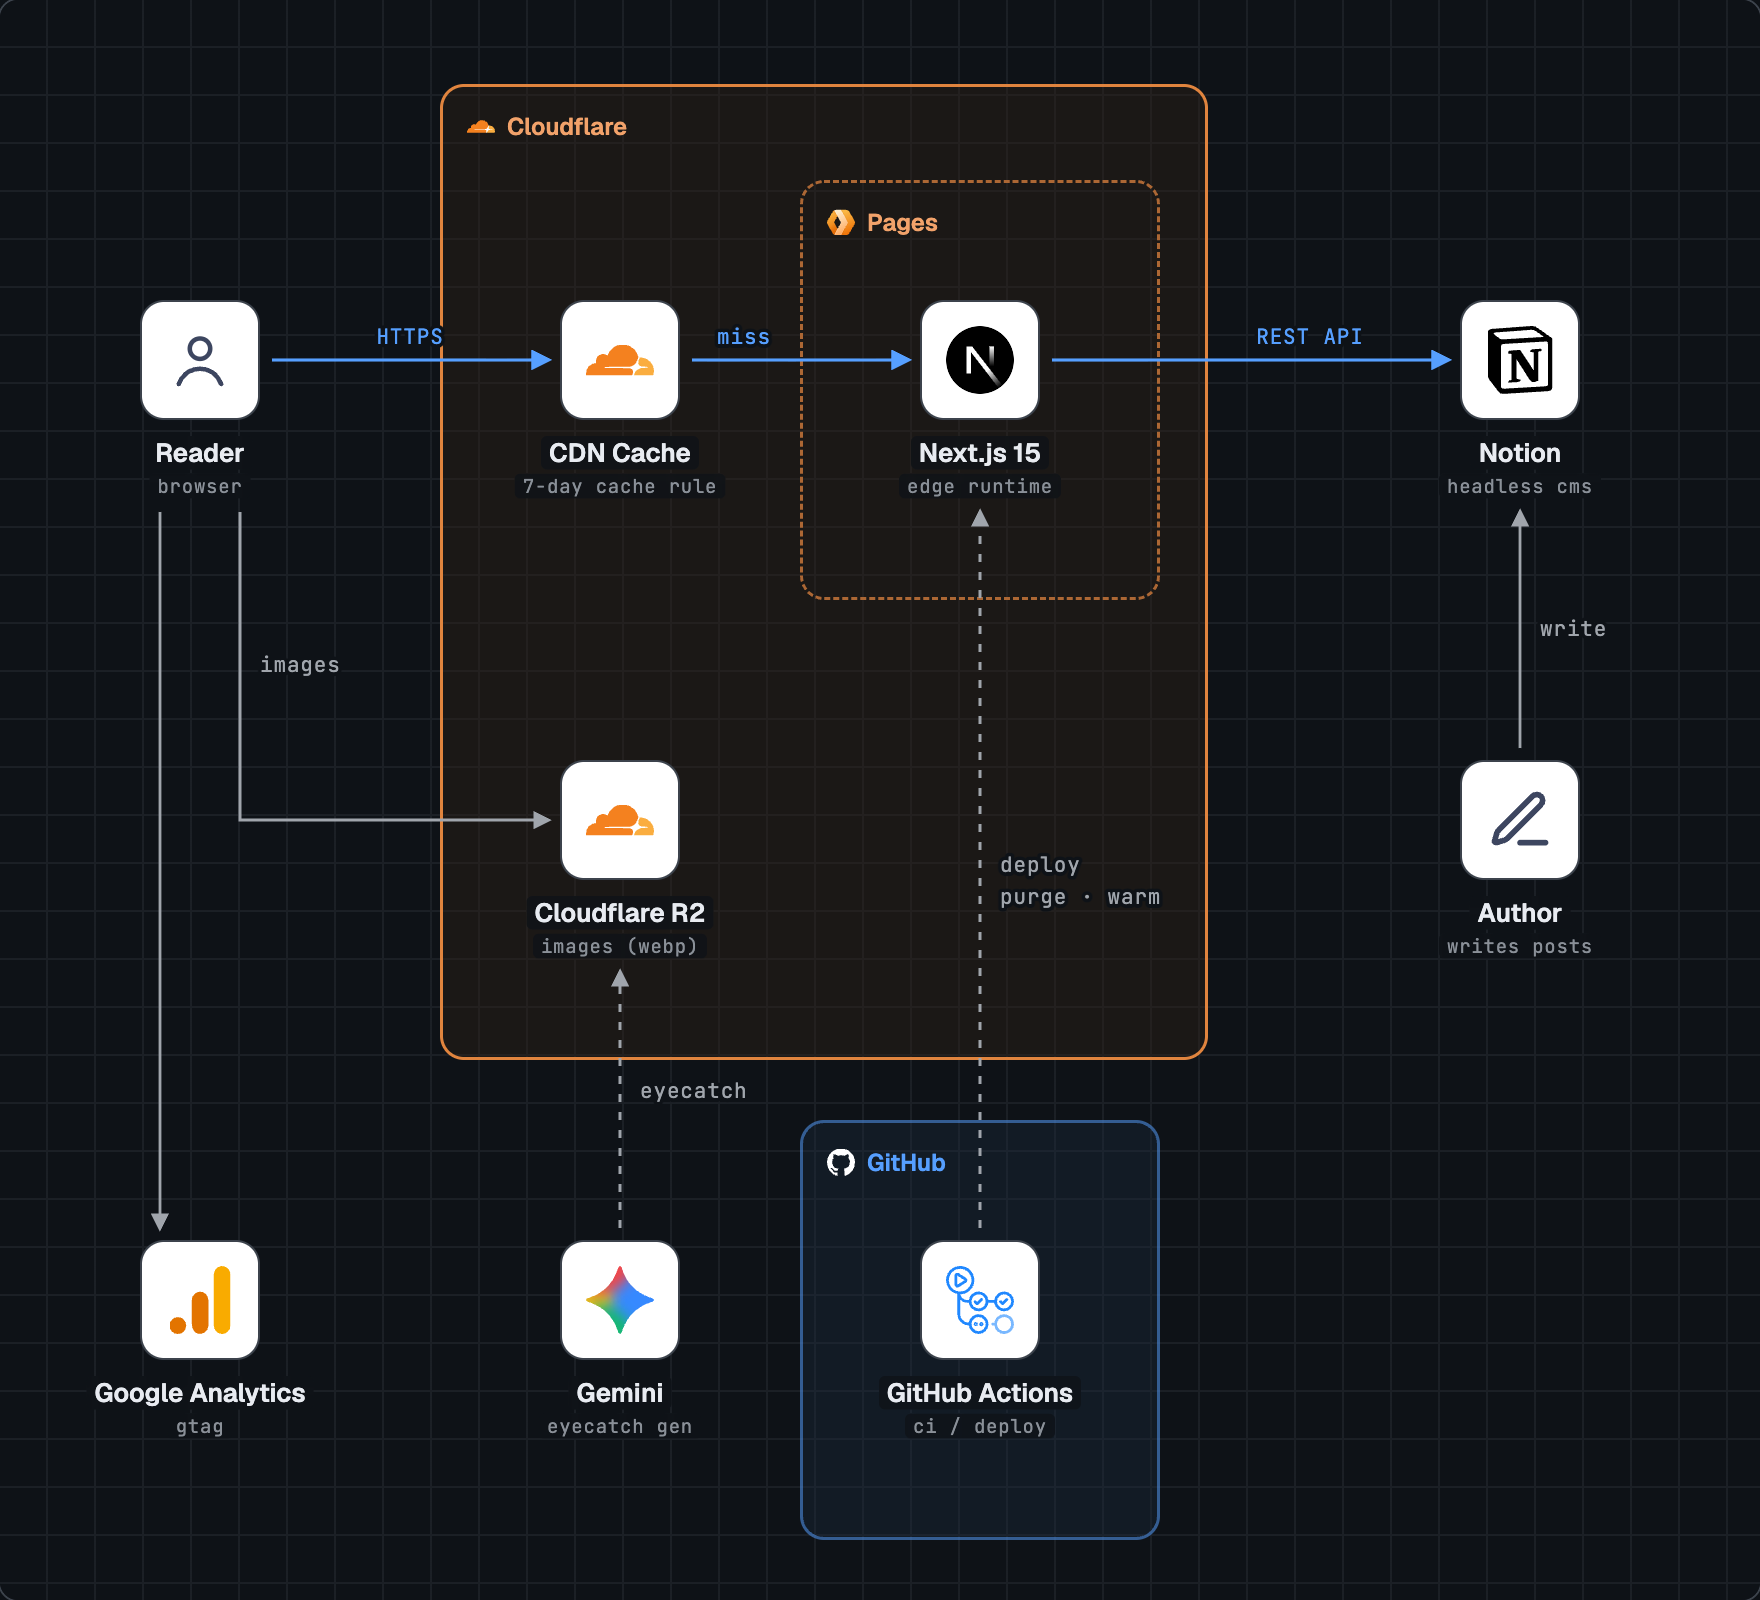
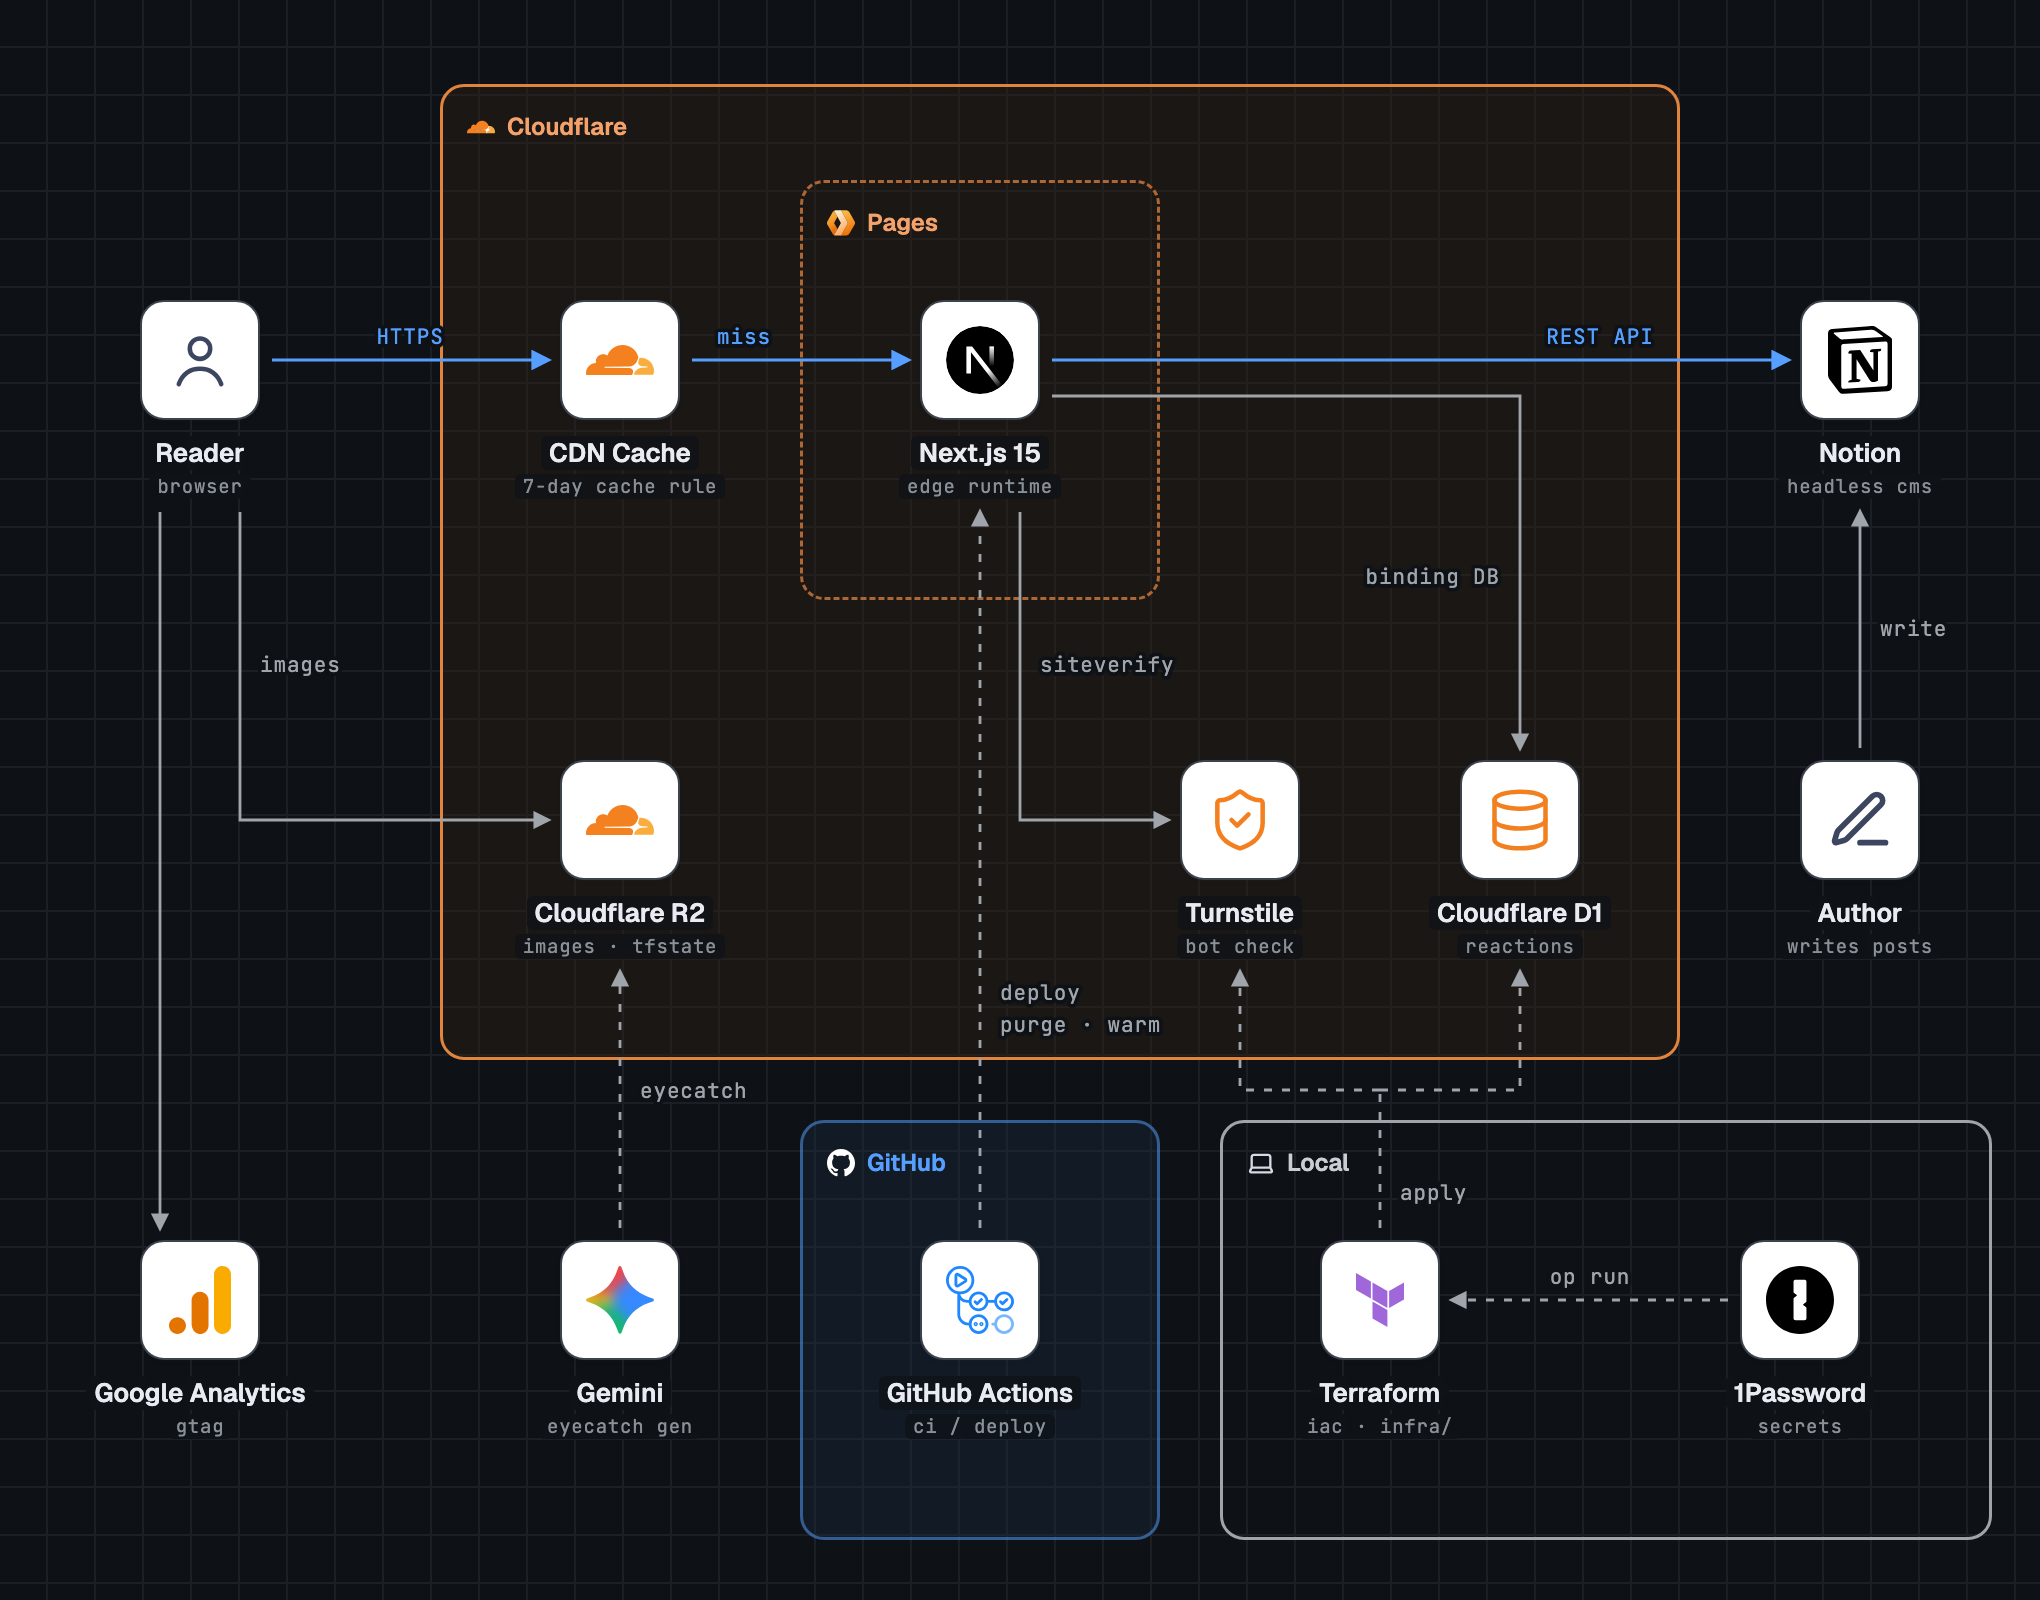
docs: 構成図と README を D1・Turnstile・Terraform・1Password に合わせて更新 (#567)
* docs: update architecture diagram and README for D1, Turnstile, Terraform and 1Password

- diagram: add Turnstile, D1, Terraform and 1Password (Local group); R2 also holds tfstate
- README: alt text, how-it-works, tech stack, new Infra and Security sections, directory layout
- claude.md: add infra/ to the directory tree

Claude-Session: https://claude.ai/code/session_01LYQKhYiFatiYshUKPo45Qq

* docs: Budget alerts の説明を実際の設定に合わせる

Claude-Session: https://claude.ai/code/session_01LYQKhYiFatiYshUKPo45Qq

---------

diff --git a/docs/architecture.html b/docs/architecture.html
@@ -82,7 +82,7 @@ h1 { font-family: var(--font-display); font-weight: 700; font-size: clamp(22px, 
 
 .scroller { overflow-x: auto; border: 1px solid var(--color-rule-2); border-radius: var(--radius-card); }
 /* CANVAS SIZE: set width/height here AND on svg.edges AND its viewBox — keep the three in sync */
-.canvas { position: relative; width: 880px; height: 800px; background: var(--color-paper);
+.canvas { position: relative; width: 1020px; height: 800px; background: var(--color-paper);
   background-image:
     linear-gradient(var(--color-rule) 1px, transparent 1px),
     linear-gradient(90deg, var(--color-rule) 1px, transparent 1px);
@@ -106,6 +106,8 @@ h1 { font-family: var(--font-display); font-weight: 700; font-size: clamp(22px, 
 .group.gb { border:1.5px solid var(--color-accent-soft); background: var(--color-accent-tint); }
 .group.ga > .g-label, .group.ga-nested > .g-label { color: var(--color-g1-ink); }
 .group.gb > .g-label { color: var(--color-accent); }
+.group.gc { border:1.5px solid var(--color-neutral); }   /* developer's machine */
+.group.gc > .g-label { color: var(--color-ink-2); }
 .group.aws { border:1.5px solid var(--color-ink); border-radius:0; }
 .group.aws > .g-label { top:-1.5px; left:-1.5px; gap:8px; color: var(--color-ink); }
 .group.aws > .g-label img { width:30px; height:30px; }
@@ -145,7 +147,7 @@ h1 { font-family: var(--font-display); font-weight: 700; font-size: clamp(22px, 
 .node .name span, .node .role span { background: var(--color-veil); backdrop-filter: blur(1.5px);
   padding: 0 var(--space-xs); border-radius: 3px; -webkit-box-decoration-break: clone; box-decoration-break: clone; }
 
-svg.edges { position:absolute; inset:0; width:880px; height:800px; pointer-events:none; }
+svg.edges { position:absolute; inset:0; width:1020px; height:800px; pointer-events:none; }
 .e  { stroke: var(--color-accent); stroke-width:1.6; fill:none; }   /* primary flow */
 .n  { stroke: var(--color-neutral); stroke-width:1.4; fill:none; }  /* internal */
 path.aws { stroke: var(--color-ink); stroke-width:1.6; fill:none; }
@@ -175,11 +177,11 @@ path.aws { stroke: var(--color-ink); stroke-width:1.6; fill:none; }
       <div class="kicker">kt-tech.blog / architecture / 2026-11</div>
       <h1>kt-tech.blog のシステム構成</h1>
     </div>
-    <p class="lede">Notion で書いた記事を Cloudflare Pages の Edge で描画し、CDN で 7 日間キャッシュして配信する。</p>
+    <p class="lede">Notion で書いた記事を Cloudflare Pages の Edge で描画し、CDN で 7 日間キャッシュして配信する。「参考になった」の件数は D1 に持ち、Turnstile で bot を弾く。</p>
   </header>
   <div class="scroller">
   <div class="canvas">
-    <div class="group ga" style="left:220px; top:42px; width:384px; height:488px;">
+    <div class="group ga" style="left:220px; top:42px; width:620px; height:488px;">
[1 lines of base64/hex data omitted]
     </div>
     <div class="group ga-nested" style="left:400px; top:90px; width:180px; height:210px;">
@@ -188,8 +190,11 @@ path.aws { stroke: var(--color-ink); stroke-width:1.6; fill:none; }
     <div class="group gb" style="left:400px; top:560px; width:180px; height:210px;">
[1 lines of base64/hex data omitted]
     </div>
+    <div class="group gc" style="left:610px; top:560px; width:386px; height:210px;">
[1 lines of base64/hex data omitted]
+    </div>
 
-    <svg class="edges" viewBox="0 0 880 800" aria-hidden="true">
+    <svg class="edges" viewBox="0 0 1020 800" aria-hidden="true">
       <defs>
         <marker id="ar" viewBox="0 0 10 10" refX="8" refY="5" markerWidth="6.5" markerHeight="6.5" orient="auto-start-reverse">
           <path d="M0 0 L10 5 L0 10 z" fill="context-stroke"/>
@@ -199,20 +204,32 @@ path.aws { stroke: var(--color-ink); stroke-width:1.6; fill:none; }
       <text class="el a" x="205" y="172" text-anchor="middle">HTTPS</text>
       <path class="e" d="M346 180 H454" marker-end="url(#ar)"/>
       <text class="el a" x="372" y="172" text-anchor="middle">miss</text>
-      <path class="e" d="M526 180 H724" marker-end="url(#ar)"/>
-      <text class="el a" x="655" y="172" text-anchor="middle">REST API</text>
+      <path class="e" d="M526 180 H894" marker-end="url(#ar)"/>
+      <text class="el a" x="800" y="172" text-anchor="middle">REST API</text>
+
+      <path class="n" d="M526 198 H760 V374" marker-end="url(#ar)"/>
+      <text class="el" x="750" y="292" text-anchor="end">binding DB</text>
+      <path class="n" d="M510 256 V410 H584" marker-end="url(#ar)"/>
+      <text class="el" x="520" y="336">siteverify</text>
 
       <path class="n" d="M120 256 V410 H274" marker-end="url(#ar)"/>
       <text class="el" x="130" y="336">images</text>
       <path class="n" d="M80 256 V614" marker-end="url(#ar)"/>
-      <path class="n" d="M760 374 V256" marker-end="url(#ar)"/>
-      <text class="el" x="770" y="318">write</text>
+      <path class="n" d="M930 374 V256" marker-end="url(#ar)"/>
+      <text class="el" x="940" y="318">write</text>
 
       <path class="n dash" d="M310 614 V486" marker-end="url(#ar)"/>
       <text class="el" x="320" y="549">eyecatch</text>
       <path class="n dash" d="M490 614 V256" marker-end="url(#ar)"/>
-      <text class="el" x="500" y="436">deploy</text>
-      <text class="el" x="500" y="452">purge · warm</text>
+      <text class="el" x="500" y="500">deploy</text>
+      <text class="el" x="500" y="516">purge · warm</text>
+
+      <path class="n dash" d="M690 614 V545"/>
+      <path class="n dash" d="M690 545 H620 V486" marker-end="url(#ar)"/>
+      <path class="n dash" d="M690 545 H760 V486" marker-end="url(#ar)"/>
+      <text class="el" x="700" y="600">apply</text>
+      <path class="n dash" d="M864 650 H726" marker-end="url(#ar)"/>
+      <text class="el" x="795" y="642" text-anchor="middle">op run</text>
     </svg>
 
     <div class="node" style="left:34px;top:150px">
@@ -227,15 +244,23 @@ path.aws { stroke: var(--color-ink); stroke-width:1.6; fill:none; }
[1 lines of base64/hex data omitted]
       <div class="name"><span>Next.js 15</span></div><div class="role"><span>edge runtime</span></div>
     </div>
-    <div class="node" style="left:694px;top:150px">
+    <div class="node" style="left:864px;top:150px">
[1 lines of base64/hex data omitted]
       <div class="name"><span>Notion</span></div><div class="role"><span>headless cms</span></div>
     </div>
     <div class="node" style="left:244px;top:380px">
[1 lines of base64/hex data omitted]
-      <div class="name"><span>Cloudflare R2</span></div><div class="role"><span>images (webp)</span></div>
+      <div class="name"><span>Cloudflare R2</span></div><div class="role"><span>images · tfstate</span></div>
+    </div>
+    <div class="node" style="left:554px;top:380px">
[1 lines of base64/hex data omitted]
+      <div class="name"><span>Turnstile</span></div><div class="role"><span>bot check</span></div>
     </div>
     <div class="node" style="left:694px;top:380px">
[1 lines of base64/hex data omitted]
+      <div class="name"><span>Cloudflare D1</span></div><div class="role"><span>reactions</span></div>
+    </div>
+    <div class="node" style="left:864px;top:380px">
[1 lines of base64/hex data omitted]
       <div class="name"><span>Author</span></div><div class="role"><span>writes posts</span></div>
     </div>
@@ -251,12 +276,20 @@ path.aws { stroke: var(--color-ink); stroke-width:1.6; fill:none; }
[1 lines of base64/hex data omitted]
       <div class="name"><span>GitHub Actions</span></div><div class="role"><span>ci / deploy</span></div>
     </div>
+    <div class="node" style="left:624px;top:620px">
[1 lines of base64/hex data omitted]
+      <div class="name"><span>Terraform</span></div><div class="role"><span>iac · infra/</span></div>
+    </div>
+    <div class="node" style="left:834px;top:620px">
[1 lines of base64/hex data omitted]
+      <div class="name"><span>1Password</span></div><div class="role"><span>secrets</span></div>
+    </div>
   </div>
   </div>
   <div class="legend">
     <span><span class="sw"></span>request path</span>
     <span><span class="sw n"></span>runtime</span>
-    <span><span class="sw n dash"></span>build / deploy</span>
+    <span><span class="sw n dash"></span>build / deploy / iac</span>
   </div>
   <div class="foot">
     <span>kt-tech.blog</span>

diff --git a/claude.md b/claude.md
@@ -81,6 +81,7 @@ kt-tech.blog/
 │   └── gtag.ts                # Google Analytics
 ├── migrations/
 │   └── 0001_reactions.sql     # D1 のスキーマ（reactions）
+├── infra/                     # Terraform（D1・Turnstile）。手順は infra/README.md
 ├── env.d.ts                   # CloudflareEnv（D1 バインディングなど）の型
 ├── wrangler.dev.toml          # next dev 専用。ローカルの D1 を DB として生やす（本番は読まない）
 ├── scripts/
